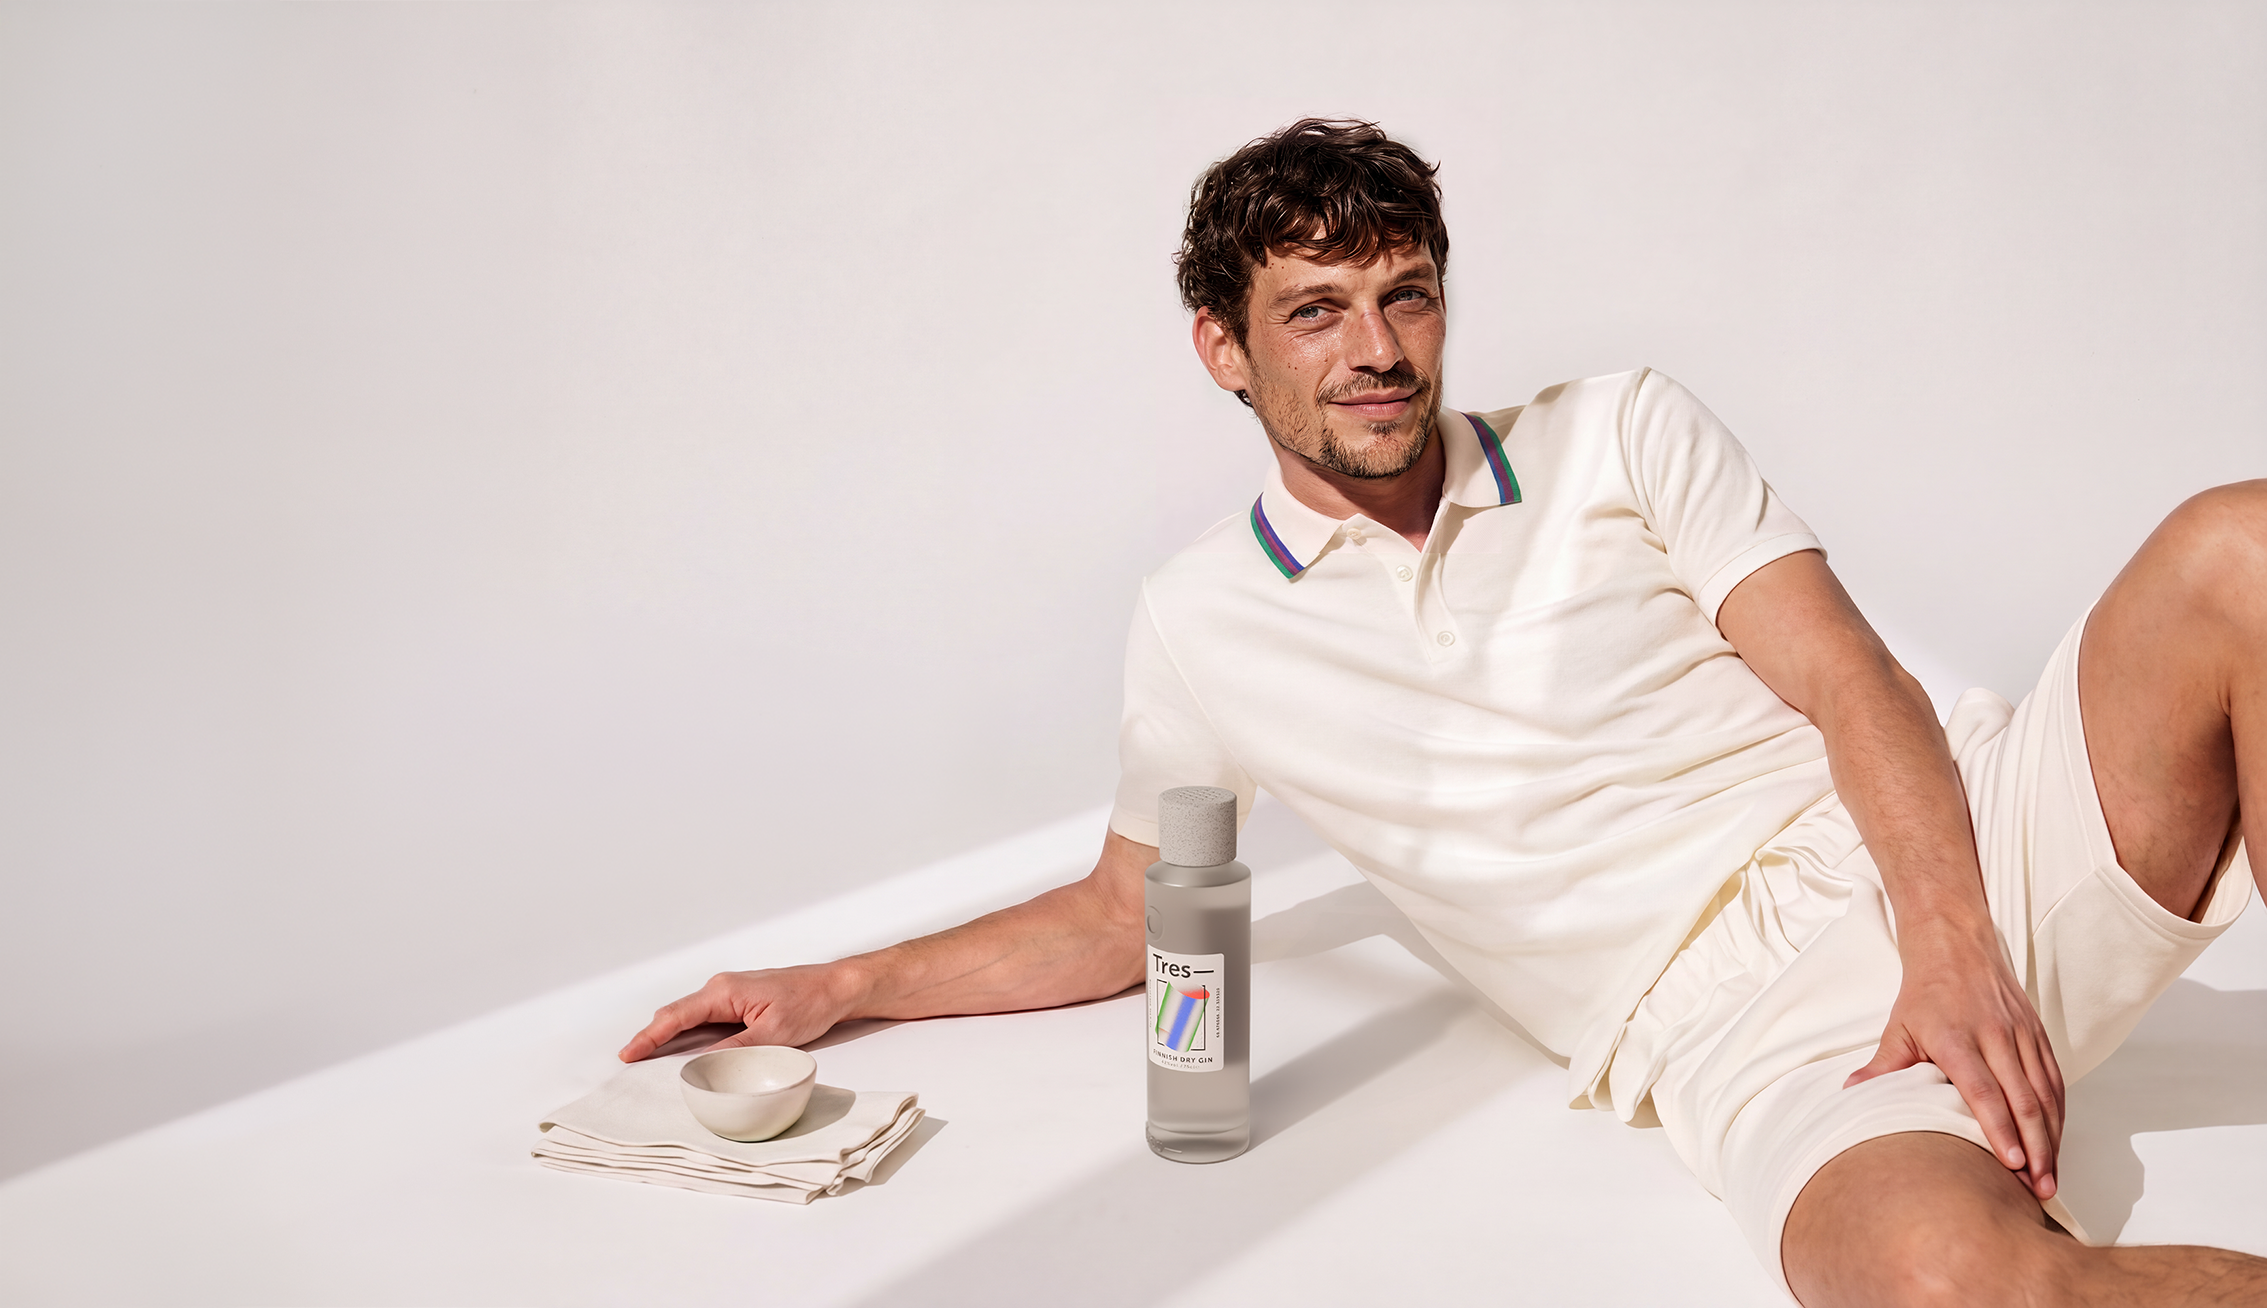
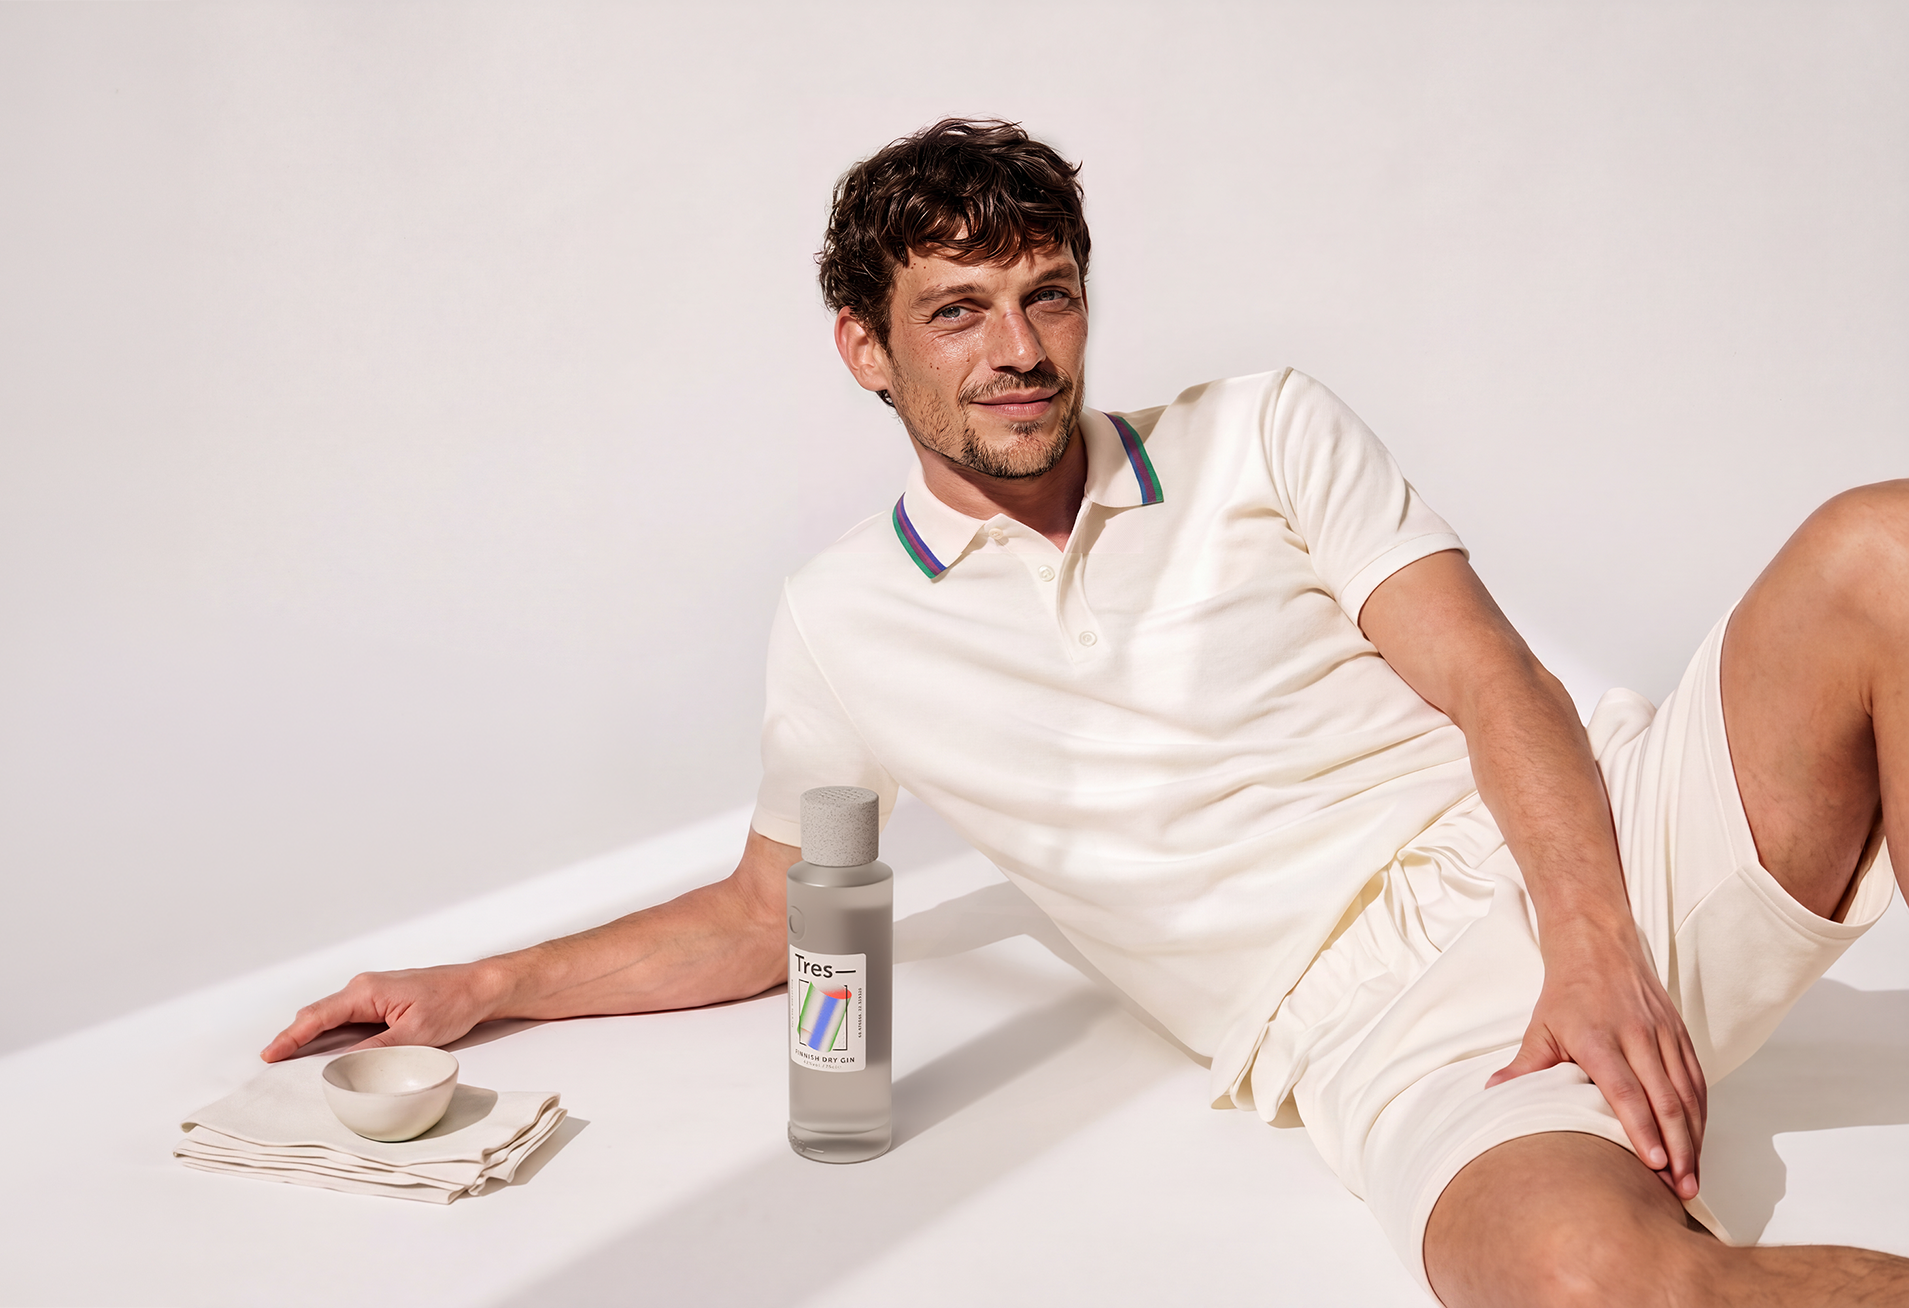
update

Changed region(s): [[0.0, 0.0917, 1.0, 1.0]]

diff --git a/opalina/index.html b/opalina/index.html
@@ -18,7 +18,7 @@
             --text-max-width: 720px;
             --page-padding: clamp(1.5rem, 4vw, 2.5rem);
             --gallery-gap: clamp(1rem, 2vw, 1.5rem);
-            --section-gap: clamp(4rem, 8vw, 7rem);
+            --section-gap: clamp(2rem, 5vw, 4rem);
         }
 
         * {
@@ -111,7 +111,7 @@
 
         .project-description {
             margin: var(--section-gap) 0;
-            padding: clamp(3rem, 7vw, 6rem) var(--page-padding);
+            padding: clamp(2rem, 4vw, 3.5rem) var(--page-padding);
             background: #426255;
             color: #cfdcb9;
             text-align: left;

diff --git a/peteshead/index.html b/peteshead/index.html
@@ -18,7 +18,7 @@
             --page-max-width: 1600px;
             --page-padding: clamp(1.5rem, 4vw, 2.5rem);
             --gallery-gap: clamp(1rem, 2vw, 1.5rem);
-            --section-gap: clamp(3rem, 8vw, 7rem);
+            --section-gap: clamp(2rem, 5vw, 4rem);
         }
 
         * {
@@ -112,7 +112,7 @@
 
         .project-description {
             margin: var(--section-gap) 0;
-            padding: clamp(3rem, 7vw, 6rem) var(--page-padding);
+            padding: clamp(2rem, 4vw, 3.5rem) var(--page-padding);
             color: #f5f7fa;
             text-align: left;
         }

diff --git a/theladder/index.html b/theladder/index.html
@@ -18,7 +18,7 @@
             --page-max-width: 1600px;
             --page-padding: clamp(1.5rem, 4vw, 2.5rem);
             --gallery-gap: clamp(1rem, 2vw, 1.5rem);
-            --section-gap: clamp(3rem, 8vw, 7rem);
+            --section-gap: clamp(2rem, 5vw, 4rem);
         }
 
         * {
@@ -112,7 +112,7 @@
 
         .project-description {
             margin: var(--section-gap) 0;
-            padding: clamp(3rem, 7vw, 6rem) var(--page-padding);
+            padding: clamp(2rem, 4vw, 3.5rem) var(--page-padding);
             color: #2d2a26;
             text-align: left;
         }

diff --git a/tres/index.html b/tres/index.html
@@ -18,7 +18,7 @@
             --text-max-width: 720px;
             --page-padding: clamp(1.5rem, 4vw, 2.5rem);
             --gallery-gap: clamp(1rem, 2vw, 1.5rem);
-            --section-gap: clamp(4rem, 8vw, 7rem);
+            --section-gap: clamp(2rem, 5vw, 4rem);
         }
 
         * {
@@ -110,7 +110,7 @@
 
         .project-description {
             margin: var(--section-gap) 0;
-            padding: clamp(3rem, 7vw, 6rem) var(--page-padding);
+            padding: clamp(2rem, 4vw, 3.5rem) var(--page-padding);
             background: #e6e6e6;
             color: #2d2a26;
             text-align: left;